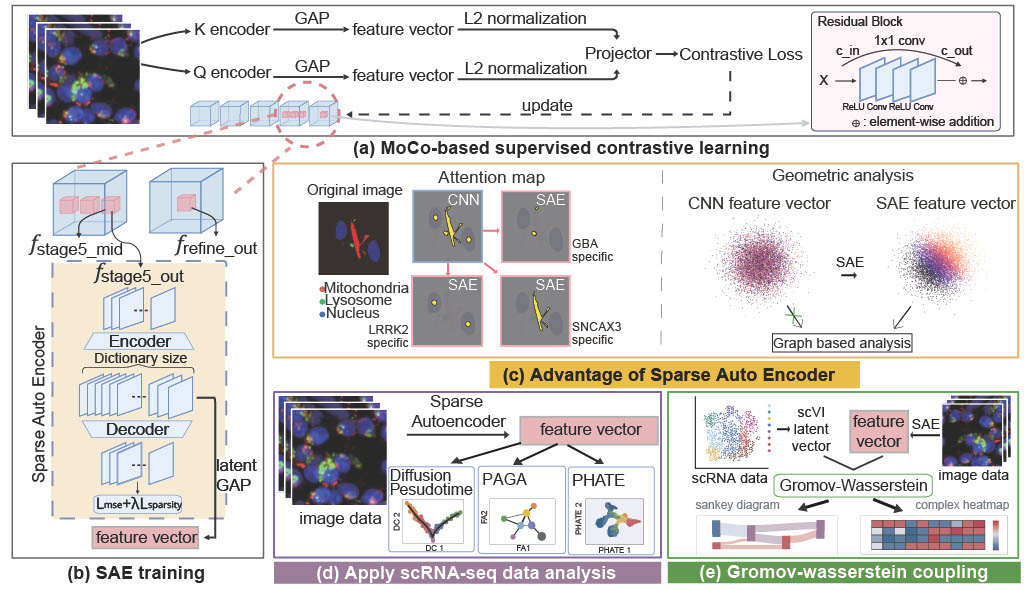
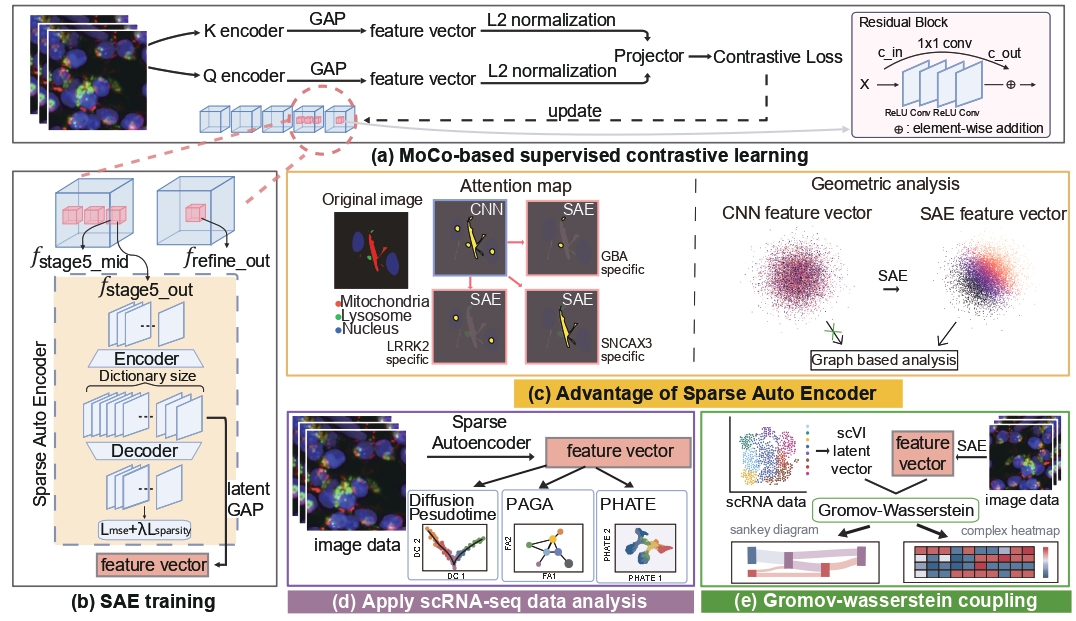
gitignore 변화

diff --git a/concept_visulaize/batch_am_sweep.py b/concept_visulaize/batch_am_sweep.py
@@ -49,7 +49,7 @@ if not _IN_COLAB:
     matplotlib.use("Agg")
 import matplotlib.pyplot as plt
 
-from activation_maximization_file.activation_maximization import (
+from concept_visulaize.activation_maximization import (
     get_spatial_activation_map, run_activation_maximization)
 from run_CNN.logging_utils import get_logger
 from run_CNN.model_encoder import (SupMoCoModel, parse_int_list,